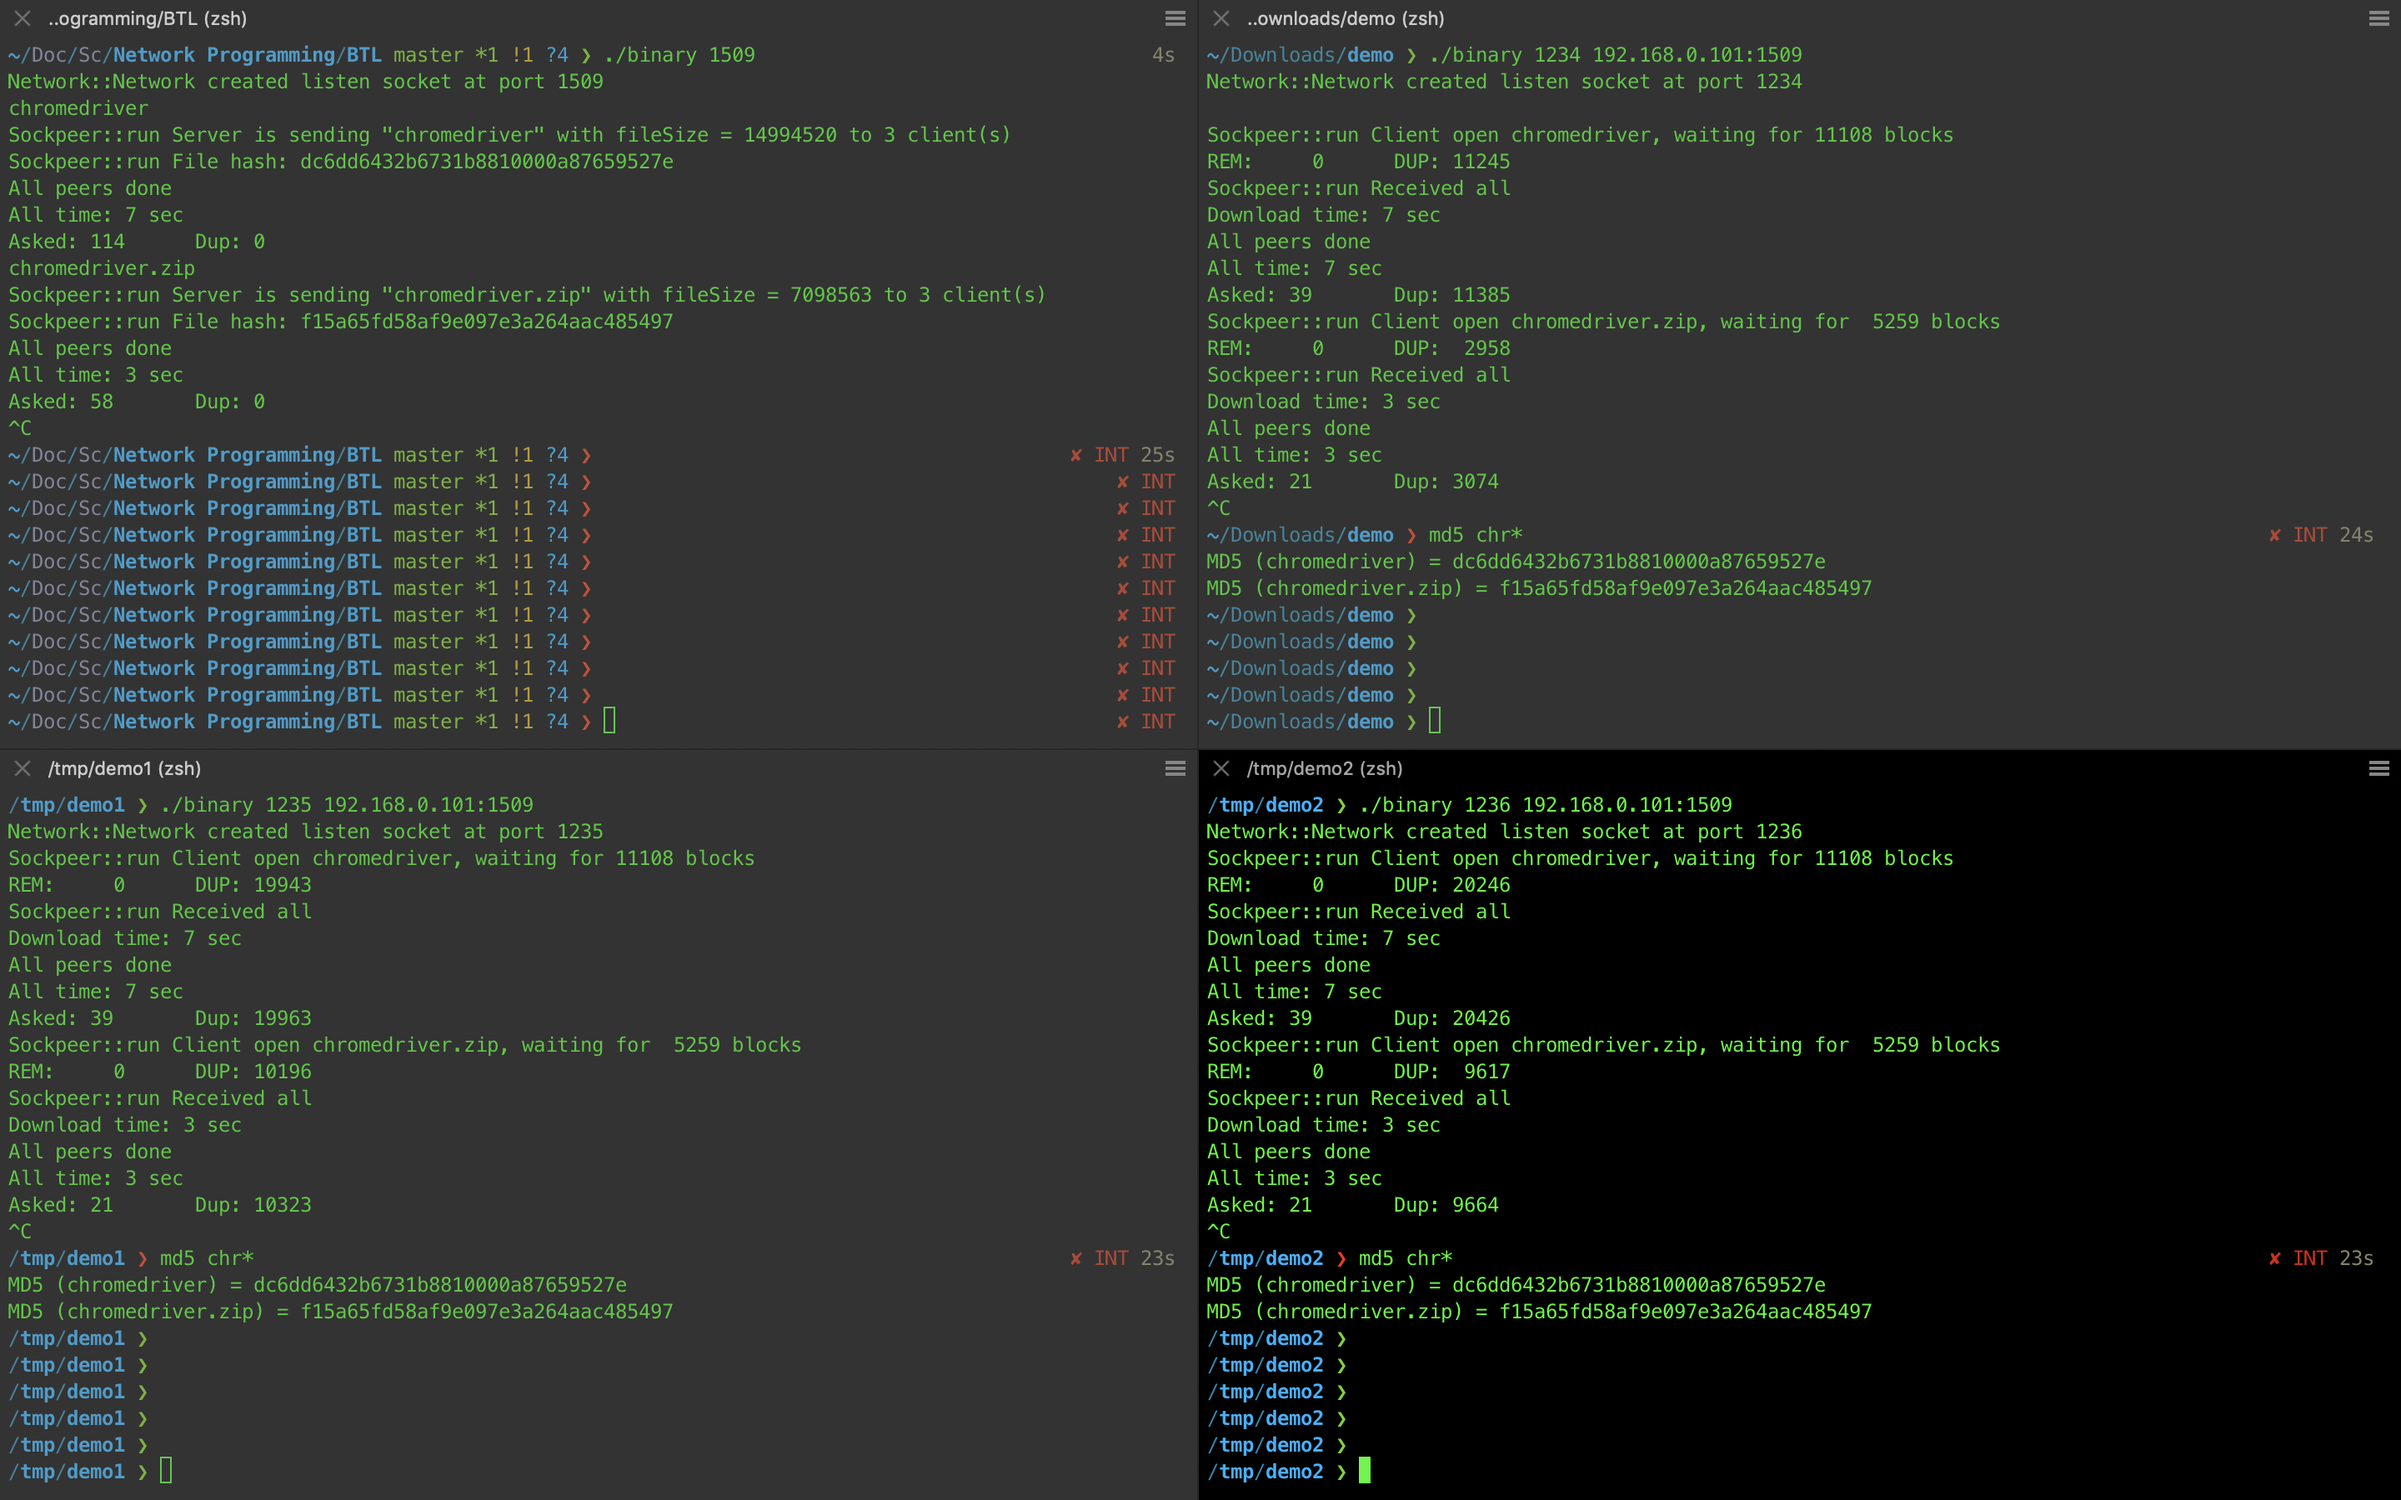
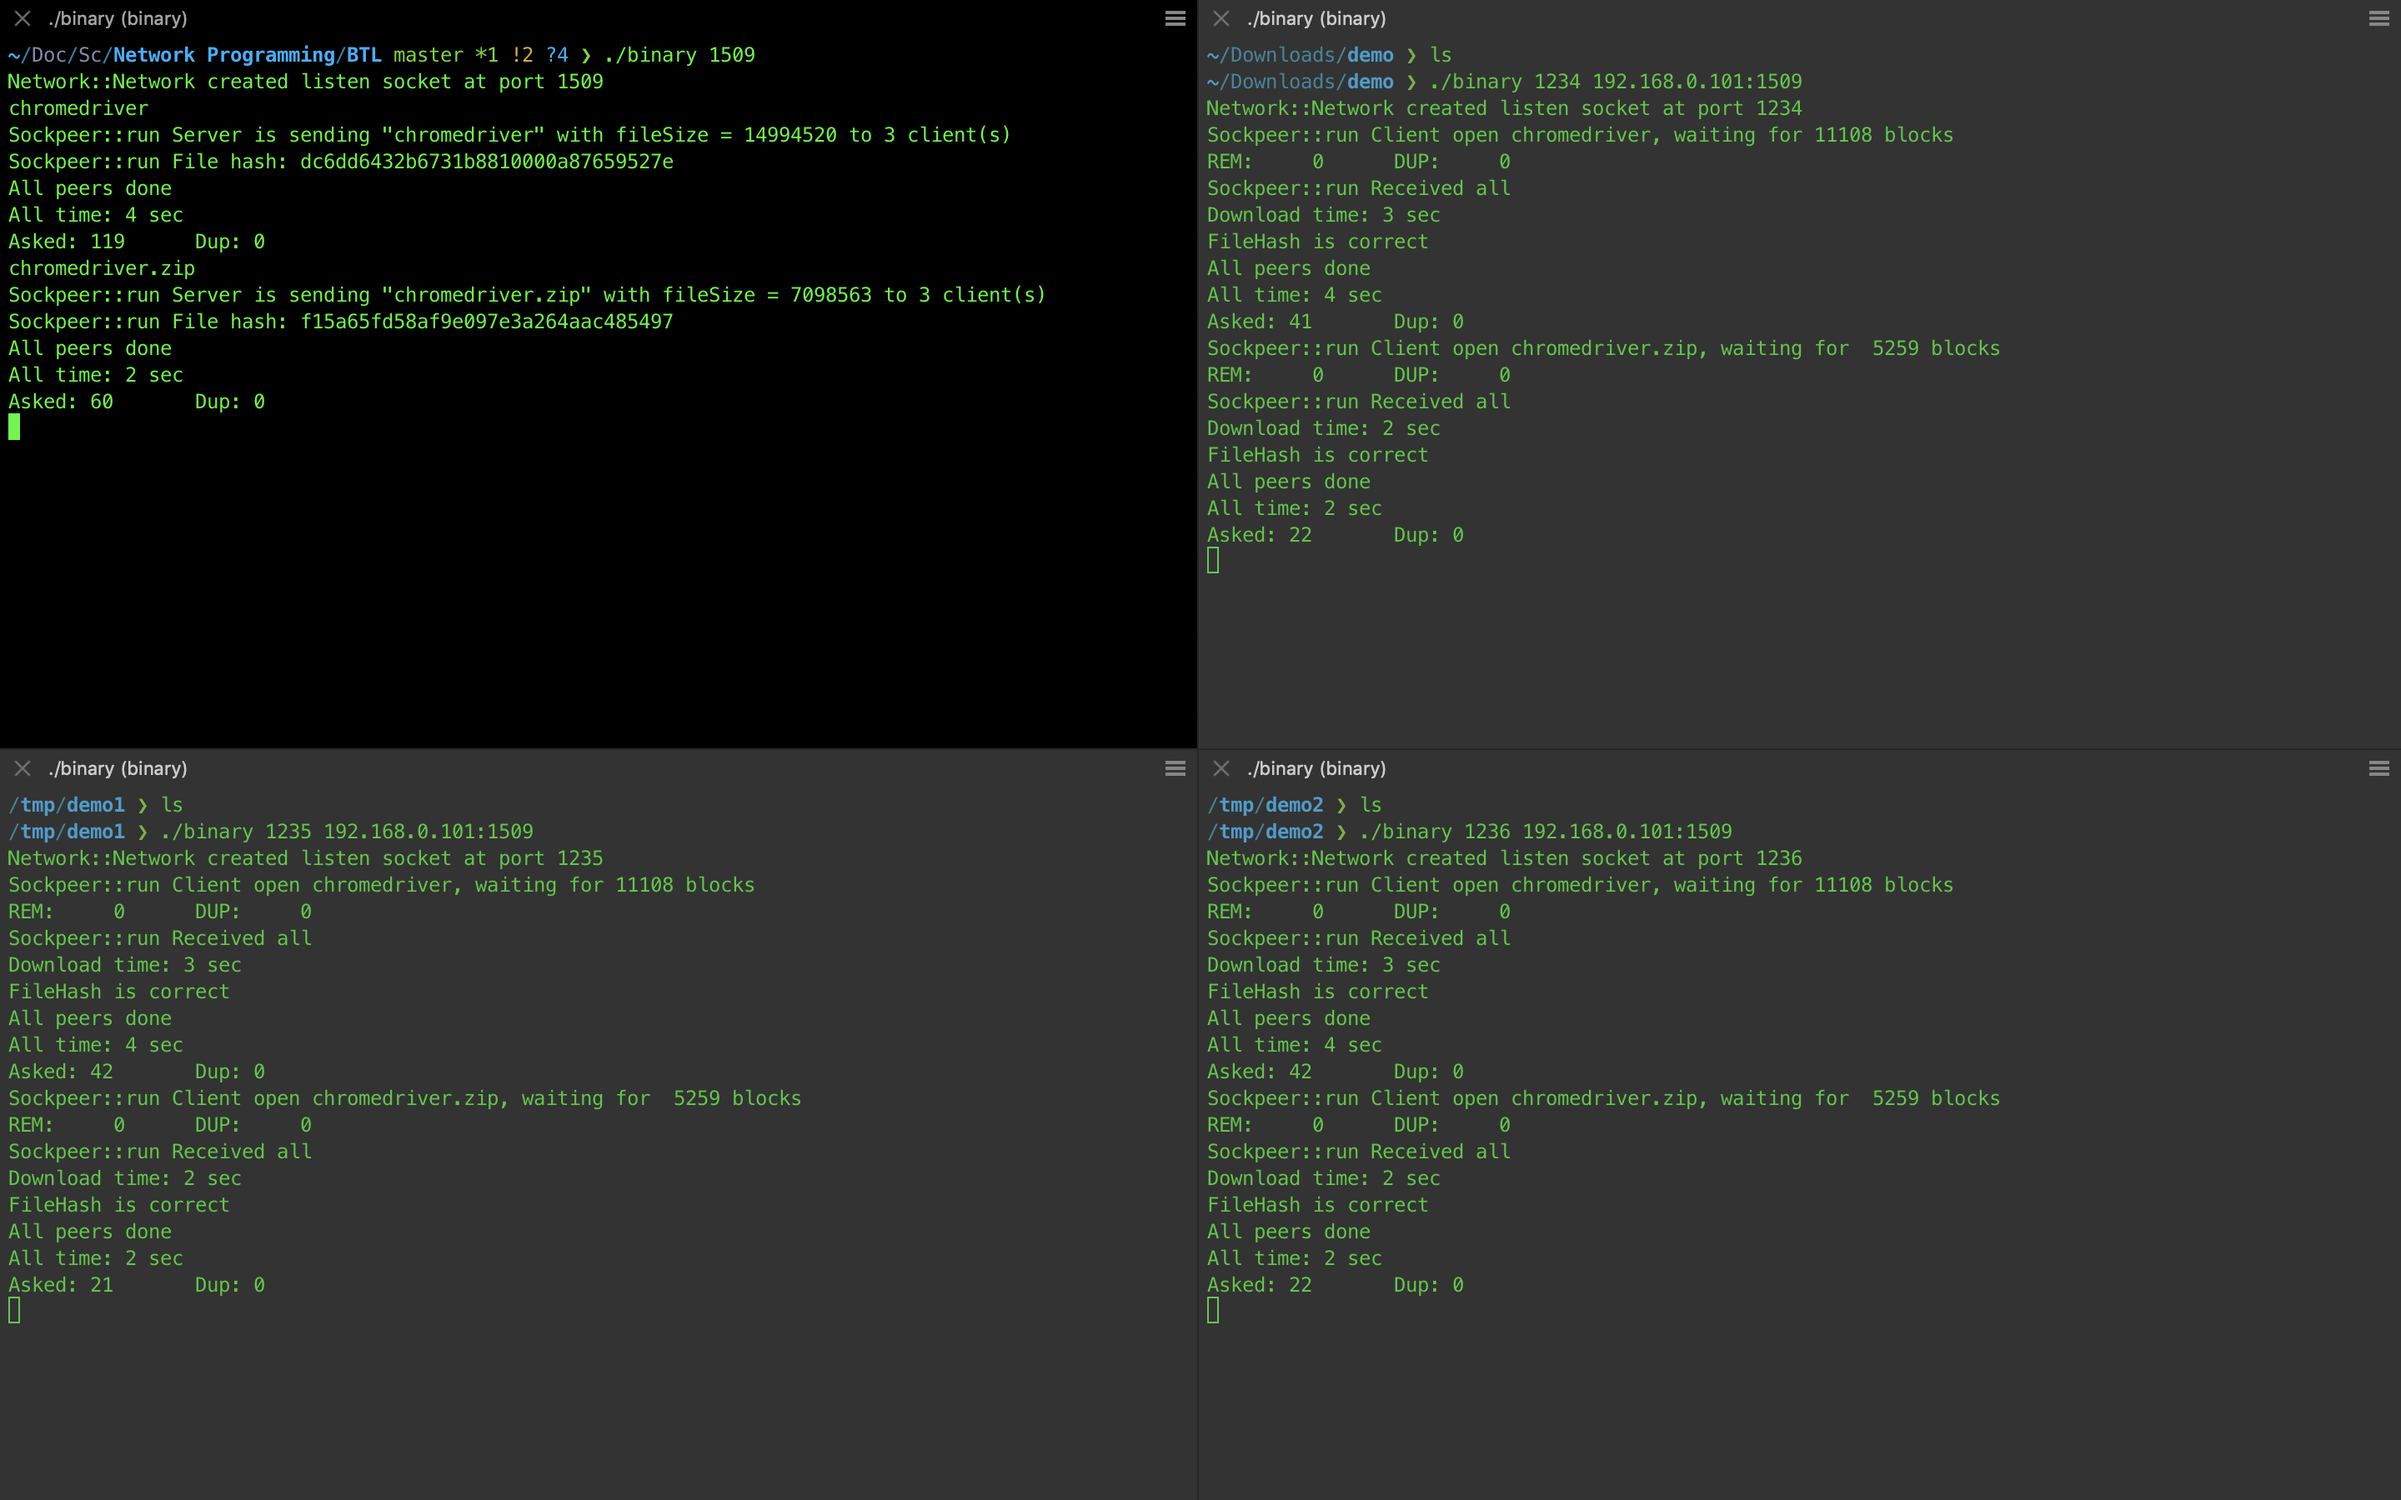
update tag & improve DUP

diff --git a/BTL/clientserver.cc b/BTL/clientserver.cc
@@ -468,18 +468,18 @@ void Sockpeer::run(){
                     }
                     memcpy(this->fileBuffer + fileData.offset(), fileData.data().c_str(), fileData.data().length());
 
-                    // Bounce back to other client
-                    dataOut = wrapMessage(BTL::MessageType::FILEDATA, this->localPort, &fileData);
-                    for (auto peer: this->tracker->peers()){
-                        if (peer.isseeder()){
-                            continue;
-                        }
-                        if (peer.host() == peerHost and peer.port() == peerPort){
-                            continue;
-                        }
-                        // Send file info to all peer that is not server and not the one who sent this message
-                        networkSend(peer.host(), peer.port(), dataOut);  
-                    }
+                    // Bounce back to other client (may duplicate)
+                    // dataOut = wrapMessage(BTL::MessageType::FILEDATA, this->localPort, &fileData);
+                    // for (auto peer: this->tracker->peers()){
+                    //     if (peer.isseeder()){
+                    //         continue;
+                    //     }
+                    //     if (peer.host() == peerHost and peer.port() == peerPort){
+                    //         continue;
+                    //     }
+                    //     // Send file info to all peer that is not server and not the one who sent this message
+                    //     networkSend(peer.host(), peer.port(), dataOut);  
+                    // }
 
                     // Mark block when done?
                     blockMark[block_i] = '0';
@@ -491,7 +491,10 @@ void Sockpeer::run(){
                     if (remain_block == 0){
                         std::cout << "\nSockpeer::run Received all\n";
                         printf("Download time: %lu sec\n", time(NULL) - startTime);
-
+                        std::string rawData = std::string(this->fileBuffer, this->fileSize);
+                        if (md5(rawData) == this->fileHash) {
+                            printf("FileHash is correct\n");
+                        }
                         msync(this->fileBuffer, this->fileSize, MS_SYNC);
                         this->tracker->set_isseeder(true);
                         // Send done to all

diff --git a/BTL/README.md b/BTL/README.md
@@ -4,45 +4,43 @@ Tên sinh viên: Trần Tuấn Minh
 
 MSV: 15021754
 
+# Table of Contents
+
+1. [Bài toán](#bài-toán)
+2. [Thiết kế giao thức](#thiết-kế-giao-thức)
+3. [Protocol](#protocol)
+4. [Demo](#demo)
+5. [Tham khảo](#tài-liệu-tham-khảo--các-kĩ-thuật-sử-dụng)
+
 ### Bài toán:
 
 - Server: S1
-
 - Client: C1, C2, C3
-
+- Server và Client được gọi là Peer
+- Server còn được gọi là Seeder
 - Server cần truyền 2 file (1-10MB) đến Client(s)
-
 - Người dùng nhập tên file cần truyền tại Server, đánh dấu mốc thời gian (1)
-
 - Sau khi Client(s) nhận được hết file, hiện thời gian (2)
-
 - Client(s) có thể gửi dữ liệu cho nhau
-
 - Checksum sau khi nhận file
-
 - Thời gian = (2) - (1)
 
 ### Thiết kế giao thức:
 
 1. Các máy đồng thời tạo socket lắng nghe tại port định nghĩa trước, port này dùng chung cho tất cả user (?)
-
 2. Server được bật lên đầu tiên, khởi tạo môi trường mạng
-
 3. Connect
 	- Client(s) kết nối đến Server, cập nhật Server vào danh sách ClientInfo
 	- Server gửi danh sách ClientInfo, đồng thời cập nhật Client vào danh sách của mình
 	- Client(s) nhận danh sách ClientInfo của Server, cập nhật lại ClientInfo của mình
-
 4. File transfer
 	- Server in ra danh sách tên file có thể gửi
 	- Server nhập tên file, bắt đầu tính thời gian (1)
 	- Server gửi thông tin sẽ chuyển file đến Client(s): {tên file, checksum, dung lượng file}
 	- Server sẽ gửi lần lượt các packet: block[i] -> Client[i%3]
-
 5. Extra
 	- [√] Client sau khi nhận được packet, gửi packet đó đến cho Client khác
-	- [√] Nếu không nhận được block nào từ Server, Client bắt đầu hỏi các packet còn thiếu theo exponential backoff
-	- [√] Khi Client nhận được đủ file, thông báo cho Client khác biết, in ra thời gian (2)
+	- [√] Khi Client nhận được đủ file, thông báo cho các Peer biết, in ra thời gian (2)
 	- [√] Khi tất cả Client nhận được đủ file, dừng và nhận lệnh tiếp theo
 
 ### Protocol:
